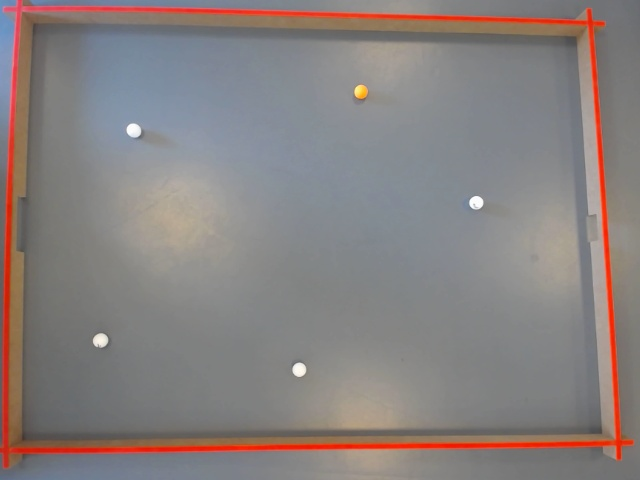
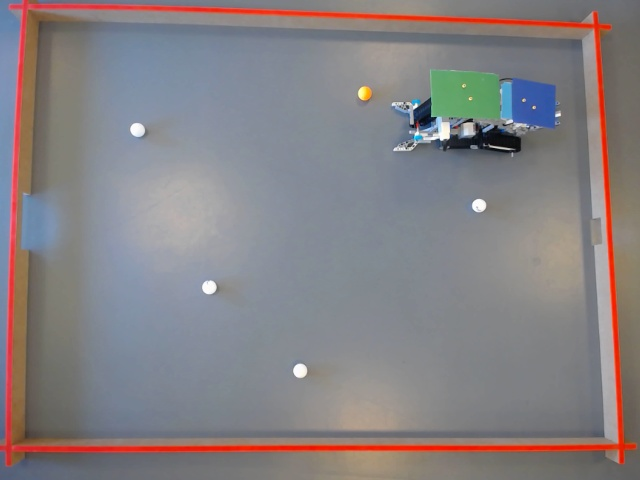
update to image recog

diff --git a/ImFromPhoto.py b/ImFromPhoto.py
@@ -13,7 +13,7 @@ class Field:
     ball_amount = 0
 
 
-image = cv.imread('Resources/Pictures/withRobot8.jpg')
+image = cv.imread('Resources/Pictures/withRobot9.jpg')
 if image is None:
     print("No image found")
 print(image[0][0])
@@ -40,13 +40,22 @@ maxVal = list
 for i in range(img_height):
     for j in range(img_width):
         # detecting walls
-        if image[i][j][2] <= 70 and image[i][j][0] <= 70 and 0 <= image[i][j][1] <= 70:
+
+        if image[i][j][0] <= 220 and 40 <= image[i][j][1] <= 100 and 25 <= image[i][j][2] <= 80:
             # Detected green square
             blank[i][j][0] = 0
-            blank[i][j][1] = 255
-            blank[i][j][2] = 255
+            blank[i][j][1] = 0
+            blank[i][j][2] = 0
             cv.rectangle(blank, (j, i), (j, i), (0, 255, 255), 1)
-            green_pixels += 1
+
+
+        if image[i][j][0] <= 120 and 150 <= image[i][j][1] <= 200 and 75 <= image[i][j][2] <= 110:
+            # Detected green square
+            blank[i][j][0] = 0
+            blank[i][j][1] = 0
+            blank[i][j][2] = 0
+            cv.rectangle(blank, (j, i), (j, i), (255, 255, 255), 1)
+            
         if 200 <= image[i][j][2] and 100 >= image[i][j][1]:
             red_pixels += 1
             blank[i][j][2] = 255
@@ -93,7 +102,7 @@ if detected_circles is not None:
         circles2 += 1
         # Draw the circumference of the circle.
         cv.circle(blank, (a, b), r, (0, 255, 0), 2)
-  
+        print("Center of this circle should be: " + str(a) + " " + str(b))
         # Draw a small circle (of radius 1) to show the center.
         cv.circle(blank, (a, b), 1, (0, 0, 255), 3)
 
